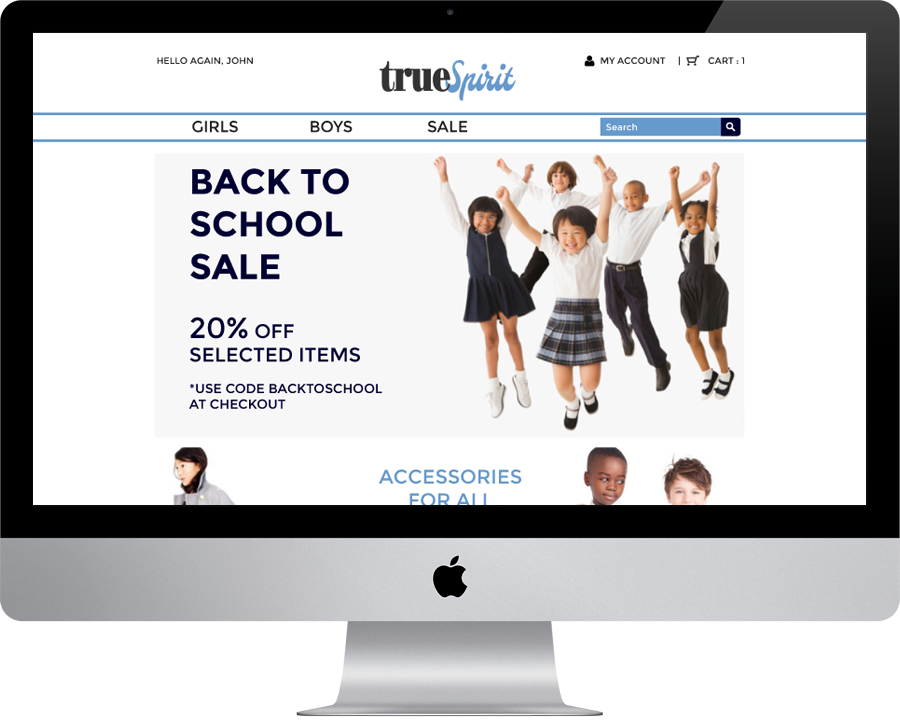
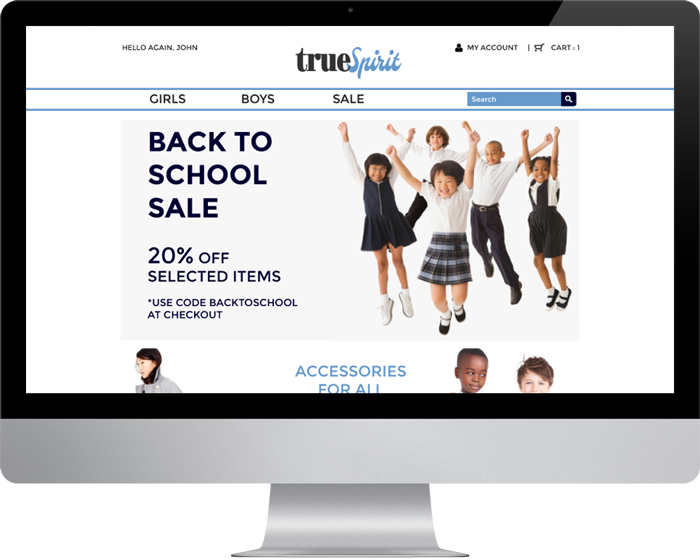
Changes to project pages
added tagline
opening prototypes in new page
user flow color change for WebMD & Time to Go
Added sketch photos to WebMD page
added mobile photo to WebMD
Removed apple logo from monitors

diff --git a/views/project-webmd.html b/views/project-webmd.html
@@ -60,6 +60,7 @@
         <div class="bg-block bg-block-gray">
             <div class="container container-last">
                 <h1>CASE STUDY: WEBMD</h1>
+                <h4 id="project-tagline">Adding a personalized health profile tool within the existing site.</h4>
                 <div id="project-links">
                     <ul>
                         <li>
@@ -98,21 +99,20 @@
                         <p>WebMD wants to increase their user acquisition and retention by creating a health profile tool that collects users&rsquo; health information and provides personalized suggestions.</p>
 
                         <h3>TIME FRAME</h3>
-                        <p>2 weeks, group project (2 other colleagues, Hitomi and Harry)</p>
+                        <p>2 weeks, group project with 2 other colleagues</p>
 
                         <h3>SKILLS</h3>
                         <p>User experience design, user interface, information architecture, competitor analysis, analytics, surveys, user interviews, persona creation, user flow, testing, prototypes, multiple iterations, site map.</p>
 
                         <h3>THE SOLUTION</h3>
                         <p>A personalized home page fed both organically by a user&rsquo;s browsing history and manually by added interests and communities.</p>
-                        <p>View the prototype below with mockup pages created by Hitomi in Photoshop. All other content was created by me unless noted otherwise.</p>
                         </p>
                     </div>
                 </div>
             </div>
             <div class="container">
                 <p class="center">
-                    <a class="font-spacing-md btn btn-primary btn-lg" href="http://invis.io/391GB0W48">VIEW PROTOTYPE</a>
+                    <a class="font-spacing-md btn btn-primary btn-lg" href="http://invis.io/391GB0W48" target="_blank">VIEW PROTOTYPE</a>
                 </p>
             </div>
             <div class="container project-header">
@@ -210,17 +210,37 @@
                 <div class="col-md-8 col-md-offset-2">
                     <div class="col-md-12">
                         <h3>SKETCHING</h3>
-                        <p>We sketched both individually and as a group.</p>
                     </div>
+                </div>
+            </div>
+        </div>
+
+        <div class="container">
+            <div class="caption col-md-2 hidden-sm hidden-xs">
+                <p>Team brainstorming and sketching.</p>
+            </div>
+            <img class="caption img-responsive col-md-10" src="images/webmd_feed_team.png" />
+            <div class="caption col-md-2 visible-sm visible-xs">
+                <p>Team brainstorming and sketching.</p>
+            </div>
+            <div class="container">
+                <div class="caption col-md-2 hidden-sm hidden-xs">
+                    <p>The team working to narrow our focus.</p>
+                </div>
+                <img class="caption img-responsive col-md-8" src="images/webmd_projectfocus.png" />
+                <div class="caption col-md-2 visible-sm visible-xs">
+                    <p>The team working to narrow our focus.</p>
                 </div>
             </div>
             <div class="container">
                 <div class="caption col-md-2 hidden-sm hidden-xs">
-                    <p>Sketches and brainstorming of the feed in various stages.</p>
+                    <p>Some of my sketches of the feed and settings in various stages.</p>
                 </div>
-                <img class="caption img-responsive col-md-8" src="images/feedstages.png" />
+                <img class="caption img-responsive col-md-3" src="images/webmd_feed1.png" />
+                <img class="caption img-responsive col-md-3" src="images/webmd_feed2.png" />
+                <img class="caption img-responsive col-md-3" src="images/webmd_settings1.png" />
                 <div class="caption col-md-2 visible-sm visible-xs">
-                    <p>Sketches and brainstorming of the feed in various stages.</p>
+                    <p>Some of my sketches of the feed and settings in various stages.</p>
                 </div>
             </div>
         </div>
@@ -236,11 +256,11 @@
             </div>
             <div class="container">
                 <div class="caption col-md-2 hidden-sm hidden-xs">
-                    <p>Home page: Paper to wireframe (created by Harry in OmniGraffle) to mockup (created by Hitomi in Photoshop).</p>
+                    <p>Home page: Paper to wireframe to mockup.</p>
                 </div>
                 <img class="caption img-responsive col-md-8" src="images/prototypes.png" />
                 <div class="caption col-md-2 visible-sm visible-xs">
-                    <p>Home page: Paper to wireframe (created by Harry in OmniGraffle) to mockup (created by Hitomi in Photoshop).</p>
+                    <p>Home page: Paper to wireframe to mockup.</p>
                 </div>
             </div>
             <div class="container">
@@ -281,7 +301,7 @@
                         <h3>FUTURE ITERATIONS</h3>
                         <ul>
                             <li>More testing and iterating, specifically for Judy&rsquo;s demographic.</li>
-                            <li>Making the site responsive for mobile and tablet. Our current high users, like Judy, do not use the mobile version of the site, so it was not considered for V1.</li>
+                            <li>Making the site responsive for mobile and tablet. Our current high users, like Judy, do not use the mobile version of the site, so it was not considered for Release 1.</li>
                             <li>WebMD has several different mobile apps, so we would definitely dive deeper into those and perform research and analysis to increase the value to the users.</li>
                             <li>We would gather data around the usage of all of the tools that WebMD offers.</li>
                             <li>Leveraging the highly used tools like the symptom checker to attract, and importantly, RETAIN, new users to get them to then move throughout the site and visit other content.</li>
@@ -289,7 +309,17 @@
                         </ul>
                     </div>
                 </div>
+
             </div>
+                            <div class="container">
+                    <div class="caption col-md-2 hidden-sm hidden-xs">
+                        <p>Mobile considerations for Release 2.</p>
+                    </div>
+                    <img class="caption img-responsive col-md-4" src="images/webmd_mobile.png" />
+                    <div class="caption col-md-2 visible-sm visible-xs">
+                        <p>Mobile considerations for Release 2.</p>
+                    </div>
+                </div>
             <div class="container project-header">
                 <div class="project-header-border col-md-10 col-md-offset-1">
                     <div class="col-md-10 col-md-offset-1">

diff --git a/views/project-runkeeper.html b/views/project-runkeeper.html
@@ -1,3 +1,4 @@
+
 <!doctype html>
 <html class="no-js" lang="">
 
@@ -59,8 +60,8 @@
     <div class="project">
         <div class="bg-block bg-block-gray">
             <div class="container container-last">
-                <h1>TIME TO GO</h1>
-                                <h4 id="project-tagline">A mobile application that helps users arrive on time to their destination.</h4>
+                <h1>RUNKEEPER</h1>
+<!--                                 <h4 id="project-tagline">Create a personalized health profile tool within the existing site.</h4> -->
                 <div id="project-links">
                     <ul>
                         <li>
@@ -96,23 +97,26 @@
                 <div class="col-md-8 col-md-offset-2">
                     <div class="col-md-12">
                         <h3>THE PROBLEM</h3>
-                        <p>Interview another class member, identify a problem particular to them and solve it via an application.</p>
-                        <p>Hitomi wants to remove the stress and time of mapping and calculating routes in order to be on time to places. She spent the last 2 years living in Tokyo, Japan and had recently moved back to Boston. In Tokyo, there are excellent mobile applications that provide information about bus and train times and everything arrives within seconds that they say they will. The Boston MBTA system provides inaccurate and inadequate information about train and bus times and requires significant overhead on her part in order to obtain correct information.</p>
+                        <p>Business Overview: Track your pace, measure workout distance, chart weight loss, crush training goals and more with LifeHacker’s 2012 Best Running App! RunKeeper is the simplest way to improve fitness, whether you’re just deciding to get off the couch for a 5k, biking every day, or deep into marathon training.</p>
+                        <p>Lots of RunKeeper users who have an exercise routine report weather playing a large role in their fitness behavior. One way weather influences them is in scheduling their outdoor exercise (and the rest of their life) around favorable weather conditions. Focus on solving the problem of "when should I workout" based on the weather.
 
-                        <h3>TIME FRAME</h3>
-                        <p>1 week, individual project.</p>
+                            <h3>TIME FRAME</h3>
+                            <p>2.5 weeks, group project with Kara and Rena.</p>
+                            <div class="container">
+                                <img class="center-block img-responsive" src="/images/RK_team.png" />
+                            </div>
 
-                        <h3>SKILLS</h3>
-                        <p>User experience, user interface, competitor analysis, user interviews, user flow, testing, iteration.</p>
+                            <!-- <h3>SKILLS</h3> -->
+                            <p>User experience, user interface, competitor analysis, user interviews, user flow, testing, iteration.</p>
 
-                        <h3>THE SOLUTION</h3>
-                        <p>A mobile application that tells the user when to leave their current location in order to make it to their destination on time. The main intent is to reduce the overhead time of other mapping applications and provide optionally-repeating routes that minimal input by the user. "Go times" may change daily based on traffic conditions and public transportation schedules/times.</p>
+                            <h3>THE SOLUTION</h3>
+                            <!--                         <p></p> -->
                     </div>
                 </div>
             </div>
             <div class="container">
                 <p class="center">
-                    <a class="font-spacing-md btn btn-primary btn-lg" href="http://invis.io/GN1JGHH6E" target="_blank">VIEW PROTOTYPE</a>
+                    <!--  <a class="font-spacing-md btn btn-primary btn-lg" href="http://invis.io/GN1JGHH6E" target="_blank">VIEW PROTOTYPE</a> -->
                 </p>
             </div>
             <div class="bg-block">
@@ -129,11 +133,13 @@
             <div class="container container-last">
                 <div class="col-md-8 col-md-offset-2">
                     <div class="col-md-12">
+                        <h3>CLIENT INTERVIEW</h3>
+                        <div class="container">
+                            <img class="center-block img-responsive" src="/images/RK_team.png" />
+                        </div>
                         <h3>RESEARCH &amp; ANALYSIS</h3>
-                        <h4>Competitor Analysis</h4>
-                        <p>The first application I researched was the current MBTA app. Hitomi mentioned that she had it, but doesn't use it due to lack of real-time and accurate data.
-                        <p>When Hitomi explained to me her issue, I immediately thought of Google Maps. I've used it on different devices and found it to be very accurate for trip times and traffic. Hitomi explained that her issue with using Google Maps is that she is still doing a lot of manual work every single day, so I wanted to find a way to remove this overhead.
-                        <p>Lastly, I took a quick look at Citymapper, an app that I had no previous knowledge of. I found it to have some similiar goals as the application that I was developing, but the added functionality was causing too much overhead for my target user and lacked the streamlined flow.
+                        <h4>Brand Analysis</h4>
+                        <p>The first step we took was to acquaint ourselves with the current application.</p>
                     </div>
                 </div>
             </div>
@@ -152,8 +158,7 @@
                 <div class="col-md-8 col-md-offset-2">
                     <div class="col-md-12">
                         <h3>USER FLOW</h3>
-                        <p>Initially, I found myself getting stuck on details too early, losing site of the real use of the application. I was fixed on times such as what time she wakes up, how long does it take for her to get ready, etc. I was also stuck on how she moved about the different locations from start to finish of her trip. Taking a step back, I developed the user flow and how she would move through the application. This provided perspective and allowed me to focus my thinking.</p>
-                        <p>Iteration 1 contained many steps and considerations for the user. The final iteration was more simplified for the user, auto-saving routes and asking for all necessary information upfront.</p>
+                        <p></p>
                     </div>
                 </div>
             </div>
@@ -236,7 +241,7 @@
             </div>
         </div>
     </div>
-     <!-- FOOTER -->
+    <!-- FOOTER -->
     <div id="footer">
         <div id="contact">
             <ul>

diff --git a/public/css/main.css b/public/css/main.css
@@ -156,6 +156,14 @@ a:hover {
     left: 0;
     z-index: -1;
 }
+#project-tagline {
+    font-size: 20px;
+    font-family: "Minion Pro", serif;
+    font-style: italic;
+    font-weight: 300;
+    text-align: center;
+    padding-top: 20px;
+}
 /*=======* project-links *=======*/
 
 img.center-block {
@@ -309,7 +317,6 @@ img.center-block {
     padding: 20px 0 0 0;
     color: #ebedef;
 }
-
 /*=================== about ======================*/
 
 #about {
@@ -408,12 +415,12 @@ img.center-block {
 /*=========* XS *==========*/
 
 @media (max-width: 768px) {
-h1 {
-    font-size: 44px;
-}
-.bg-block h1 {
-margin-top: 100px;
-}
+    h1 {
+        font-size: 44px;
+    }
+    .bg-block h1 {
+        margin-top: 100px;
+    }
     #project-links li {
         display: block;
         padding: 5px;
@@ -451,10 +458,8 @@ margin-top: 100px;
         text-align: center;
     }
     #main h2 {
-    padding-top: 20px;
-}
-
-
+        padding-top: 20px;
+    }
 }
 /*=========* even more XS *==========*/
 

diff --git a/views/project-truespirit.html b/views/project-truespirit.html
@@ -60,6 +60,7 @@
         <div class="bg-block bg-block-gray">
             <div class="container container-last">
                 <h1>CASE STUDY: TRUESPIRIT</h1>
+                                <h4 id="project-tagline">An e-commerce site for a school uniform company.</h4>
                 <div id="project-links">
                     <ul>
                         <li>
